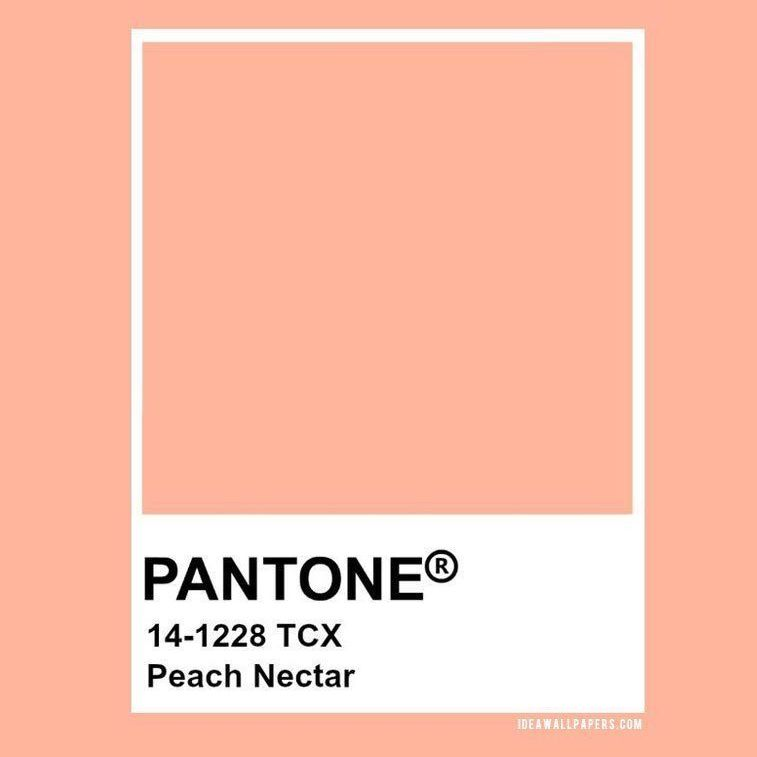
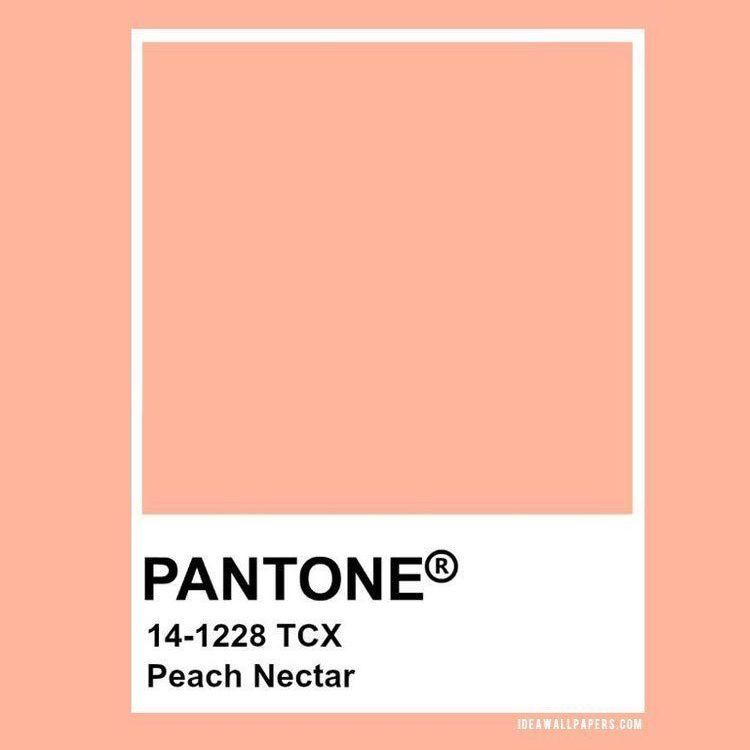
Image draw optimizations

Changed region(s): [[0.1533, 0.0307, 0.8587, 0.9813], [0.184, 0.0613, 0.2147, 0.552]]

diff --git a/chalicelib/image_generation.py b/chalicelib/image_generation.py
@@ -11,12 +11,12 @@ im = Image.new('RGBA', base.size, (255,255,255,0))
 draw = ImageDraw.Draw(im)
 main_color = '#ff0000'
 name = 'Dogu'
-draw.rectangle(((0, 00), (757, 757)), main_color)
-draw.rectangle(((120, 20), (620, 720)), '#ffffff')
+draw.rectangle(((0, 00), (750, 750)), main_color)
+draw.rectangle(((125, 25), (625, 725)), '#ffffff')
 draw.rectangle(((130, 30), (600, 500)), main_color)
 
-fnt = ImageFont.truetype('Roboto-Medium.ttf', 80)
-draw.text((140, 520), 'PANTONE'+u'\u00ae', 'black', font=fnt)
+fnt = ImageFont.truetype('Roboto-Medium.ttf', 60)
+draw.text((140, 520), 'Filsiz Boya'+u'\u00ae', 'black', font=fnt)
 draw.text((140, 620), name, 'black', font=fnt)
 
 
